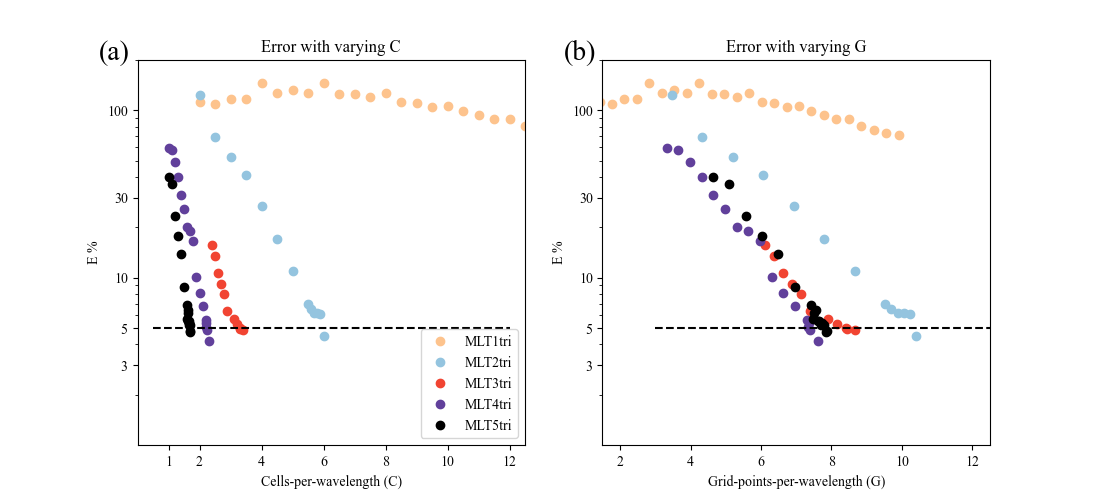
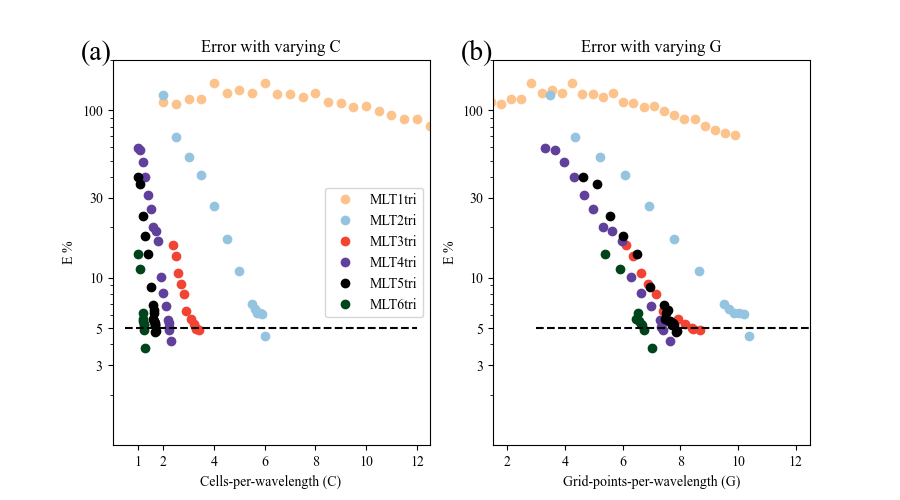
updating for new figures

diff --git a/mls_chapter_images/2d_cpw_homogeneous_sweep/completegcalc.py b/mls_chapter_images/2d_cpw_homogeneous_sweep/completegcalc.py
@@ -1,0 +1,66 @@
+from firedrake import *
+import FIAT
+import finat
+import numpy as np
+
+
+def gauss_lobatto_legendre_line_rule(degree):
+    fiat_make_rule = FIAT.quadrature.GaussLobattoLegendreQuadratureLineRule
+    fiat_rule = fiat_make_rule(FIAT.ufc_simplex(1), degree + 1)
+    finat_ps = finat.point_set.GaussLobattoLegendrePointSet
+    finat_qr = finat.quadrature.QuadratureRule
+    return finat_qr(finat_ps(fiat_rule.get_points()), fiat_rule.get_weights())
+
+
+def gauss_lobatto_legendre_cube_rule(dimension, degree):
+    make_tensor_rule = finat.quadrature.TensorProductQuadratureRule
+    result = gauss_lobatto_legendre_line_rule(degree)
+    for _ in range(1, dimension):
+        line_rule = gauss_lobatto_legendre_line_rule(degree)
+        result = make_tensor_rule([result, line_rule])
+    return result
+
+
+element_type = 'KMV'
+dimension = 2
+degrees = [1, 2, 3, 4, 5]
+
+if element_type == 'spectral':
+    quadrilateral = True
+    method = 'CG'
+    variant = 'spectral'
+elif element_type == 'KMV':
+    quadrilateral = False
+    method = 'KMV'
+    variant = 'KMV'
+
+if dimension == 2:
+    n = 1000
+    mesh = UnitSquareMesh(n, n, quadrilateral=quadrilateral)
+elif dimension == 3:
+    n = 200
+    mesh = UnitCubeMesh(n, n, n)
+
+for degree in degrees:
+
+    print('For a '+method+' '+str(dimension)+'D'+' element with degree = ' + str(degree))
+    element = FiniteElement(method, mesh.ufl_cell(), degree=degree, variant=variant)
+    V = FunctionSpace(mesh, element)
+    u = Function(V)
+    udat = u.dat.data[:]
+    dof = len(udat)
+
+    if dimension == 2 and quadrilateral is False:
+        num_elements = (2*n**2)
+        new_alpha = np.sqrt(dof / (num_elements))
+    elif dimension == 2 and quadrilateral is True:
+        num_elements = (n**2)
+        new_alpha = np.sqrt(dof / (num_elements))
+    elif dimension == 3 and quadrilateral is False:
+        num_elements = (6*n**3)
+        new_alpha = np.cbrt(dof / (num_elements))
+    elif dimension == 3 and quadrilateral is True:
+        num_elements = (n**3)
+        new_alpha = np.cbrt(dof / (num_elements))
+
+    print(new_alpha)

diff --git a/mls_chapter_images/2d_cpw_homogeneous_sweep/plot_mls_2d_homogeneous_image_updated.py b/mls_chapter_images/2d_cpw_homogeneous_sweep/plot_mls_2d_homogeneous_image_updated.py
@@ -53,6 +53,7 @@ ml2t = data["ml2t"]
 ml3t = data["ml3t"]
 ml4t = data["ml4t"]
 ml5t = data["ml5t"]
+ml6t = data["ml6t"]
 
 plt.rcParams["font.family"] = "Times New Roman"
 
@@ -61,22 +62,24 @@ cmap1 = matplotlib.cm.get_cmap("Blues")
 cmap2 = matplotlib.cm.get_cmap("Reds")
 cmap3 = matplotlib.cm.get_cmap("Purples")
 cmap4 = matplotlib.cm.get_cmap("Greys")
+cmap5 = matplotlib.cm.get_cmap("Greens")
 
-colors_regular = [cmap0(0.2), cmap1(0.3), cmap2(0.5), cmap3(0.7), cmap4(0.9)]
-colors_dark = [cmap0(0.3), cmap1(0.4), cmap2(0.6), cmap3(0.8), cmap4(1.0)]
+colors_regular = [cmap0(0.2), cmap1(0.3), cmap2(0.5), cmap3(0.7), cmap4(0.9), cmap5(1.0)]
+colors_dark = [cmap0(0.3), cmap1(0.4), cmap2(0.6), cmap3(0.8), cmap4(1.0), cmap5(1.0)]
 
 fig, ax = plt.subplots(1, 2)
 leters_size = 20
 y_limits = (1, 200)
-alphas = [0.707813887967734, 1.7326282059345566, 2.5500981353665586, 3.31722783359841, 4.637348434180895]
+alphas = [0.707813887967734, 1.7326282059345566, 2.5500981353665586, 3.31722783359841, 4.637348434180895, 5.385721910756255]
 
-p = [1, 2, 3, 4, 5]
+p = [1, 2, 3, 4, 5, 6]
 cpwl = [
     ml1t['c'].tolist(),
     ml2t['c'].tolist(),
     ml3t['c'].tolist(),
     ml4t['c'].tolist(),
     ml5t['c'].tolist(),
+    ml6t['c'].tolist(),
 ]
 
 err = [
@@ -85,6 +88,7 @@ err = [
     ml3t['error'].tolist(),
     ml4t['error'].tolist(),
     ml5t['error'].tolist(),
+    ml6t['error'].tolist(),
 ]
 
 dts = [
@@ -93,6 +97,7 @@ dts = [
     ml3t['dt'].tolist(),
     ml4t['dt'].tolist(),
     ml5t['dt'].tolist(),
+    ml6t['dt'].tolist(),
 ]
 
 runtimes = [
@@ -101,6 +106,7 @@ runtimes = [
     ml3t['runtime'].tolist(),
     ml4t['runtime'].tolist(),
     ml5t['runtime'].tolist(),
+    ml6t['runtime'].tolist(),
 ]
 
 cont = 0
